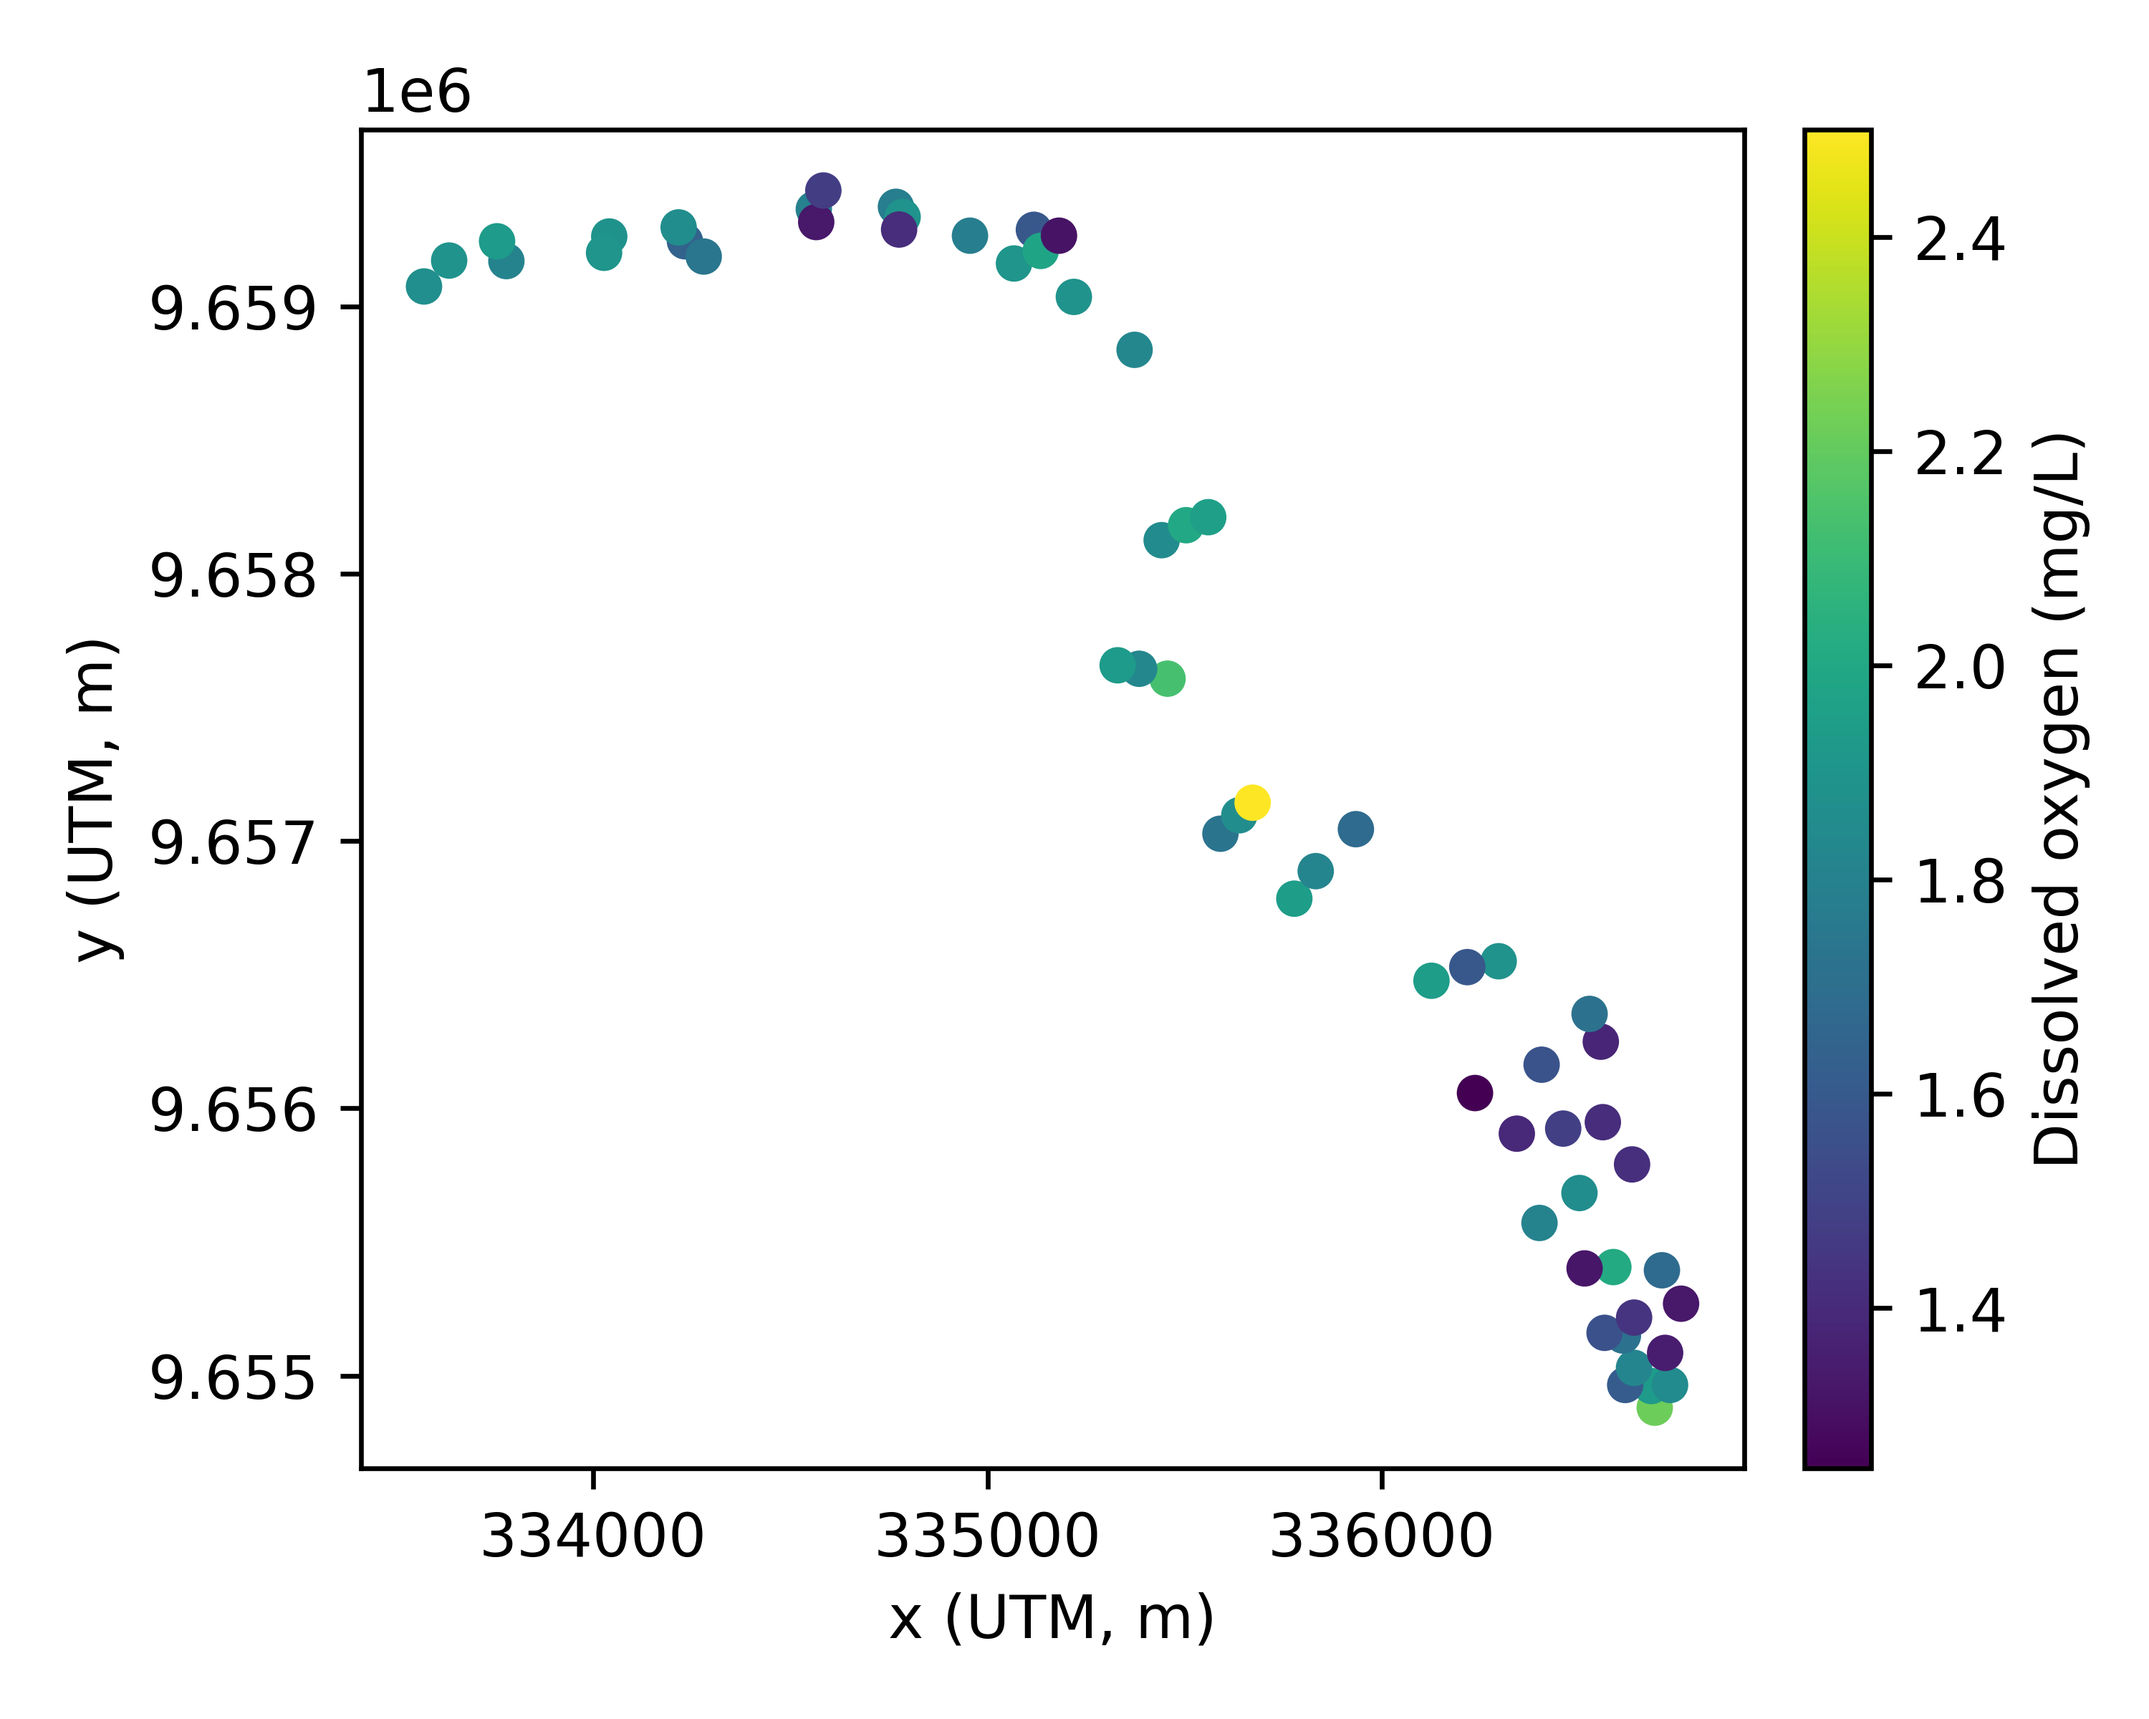
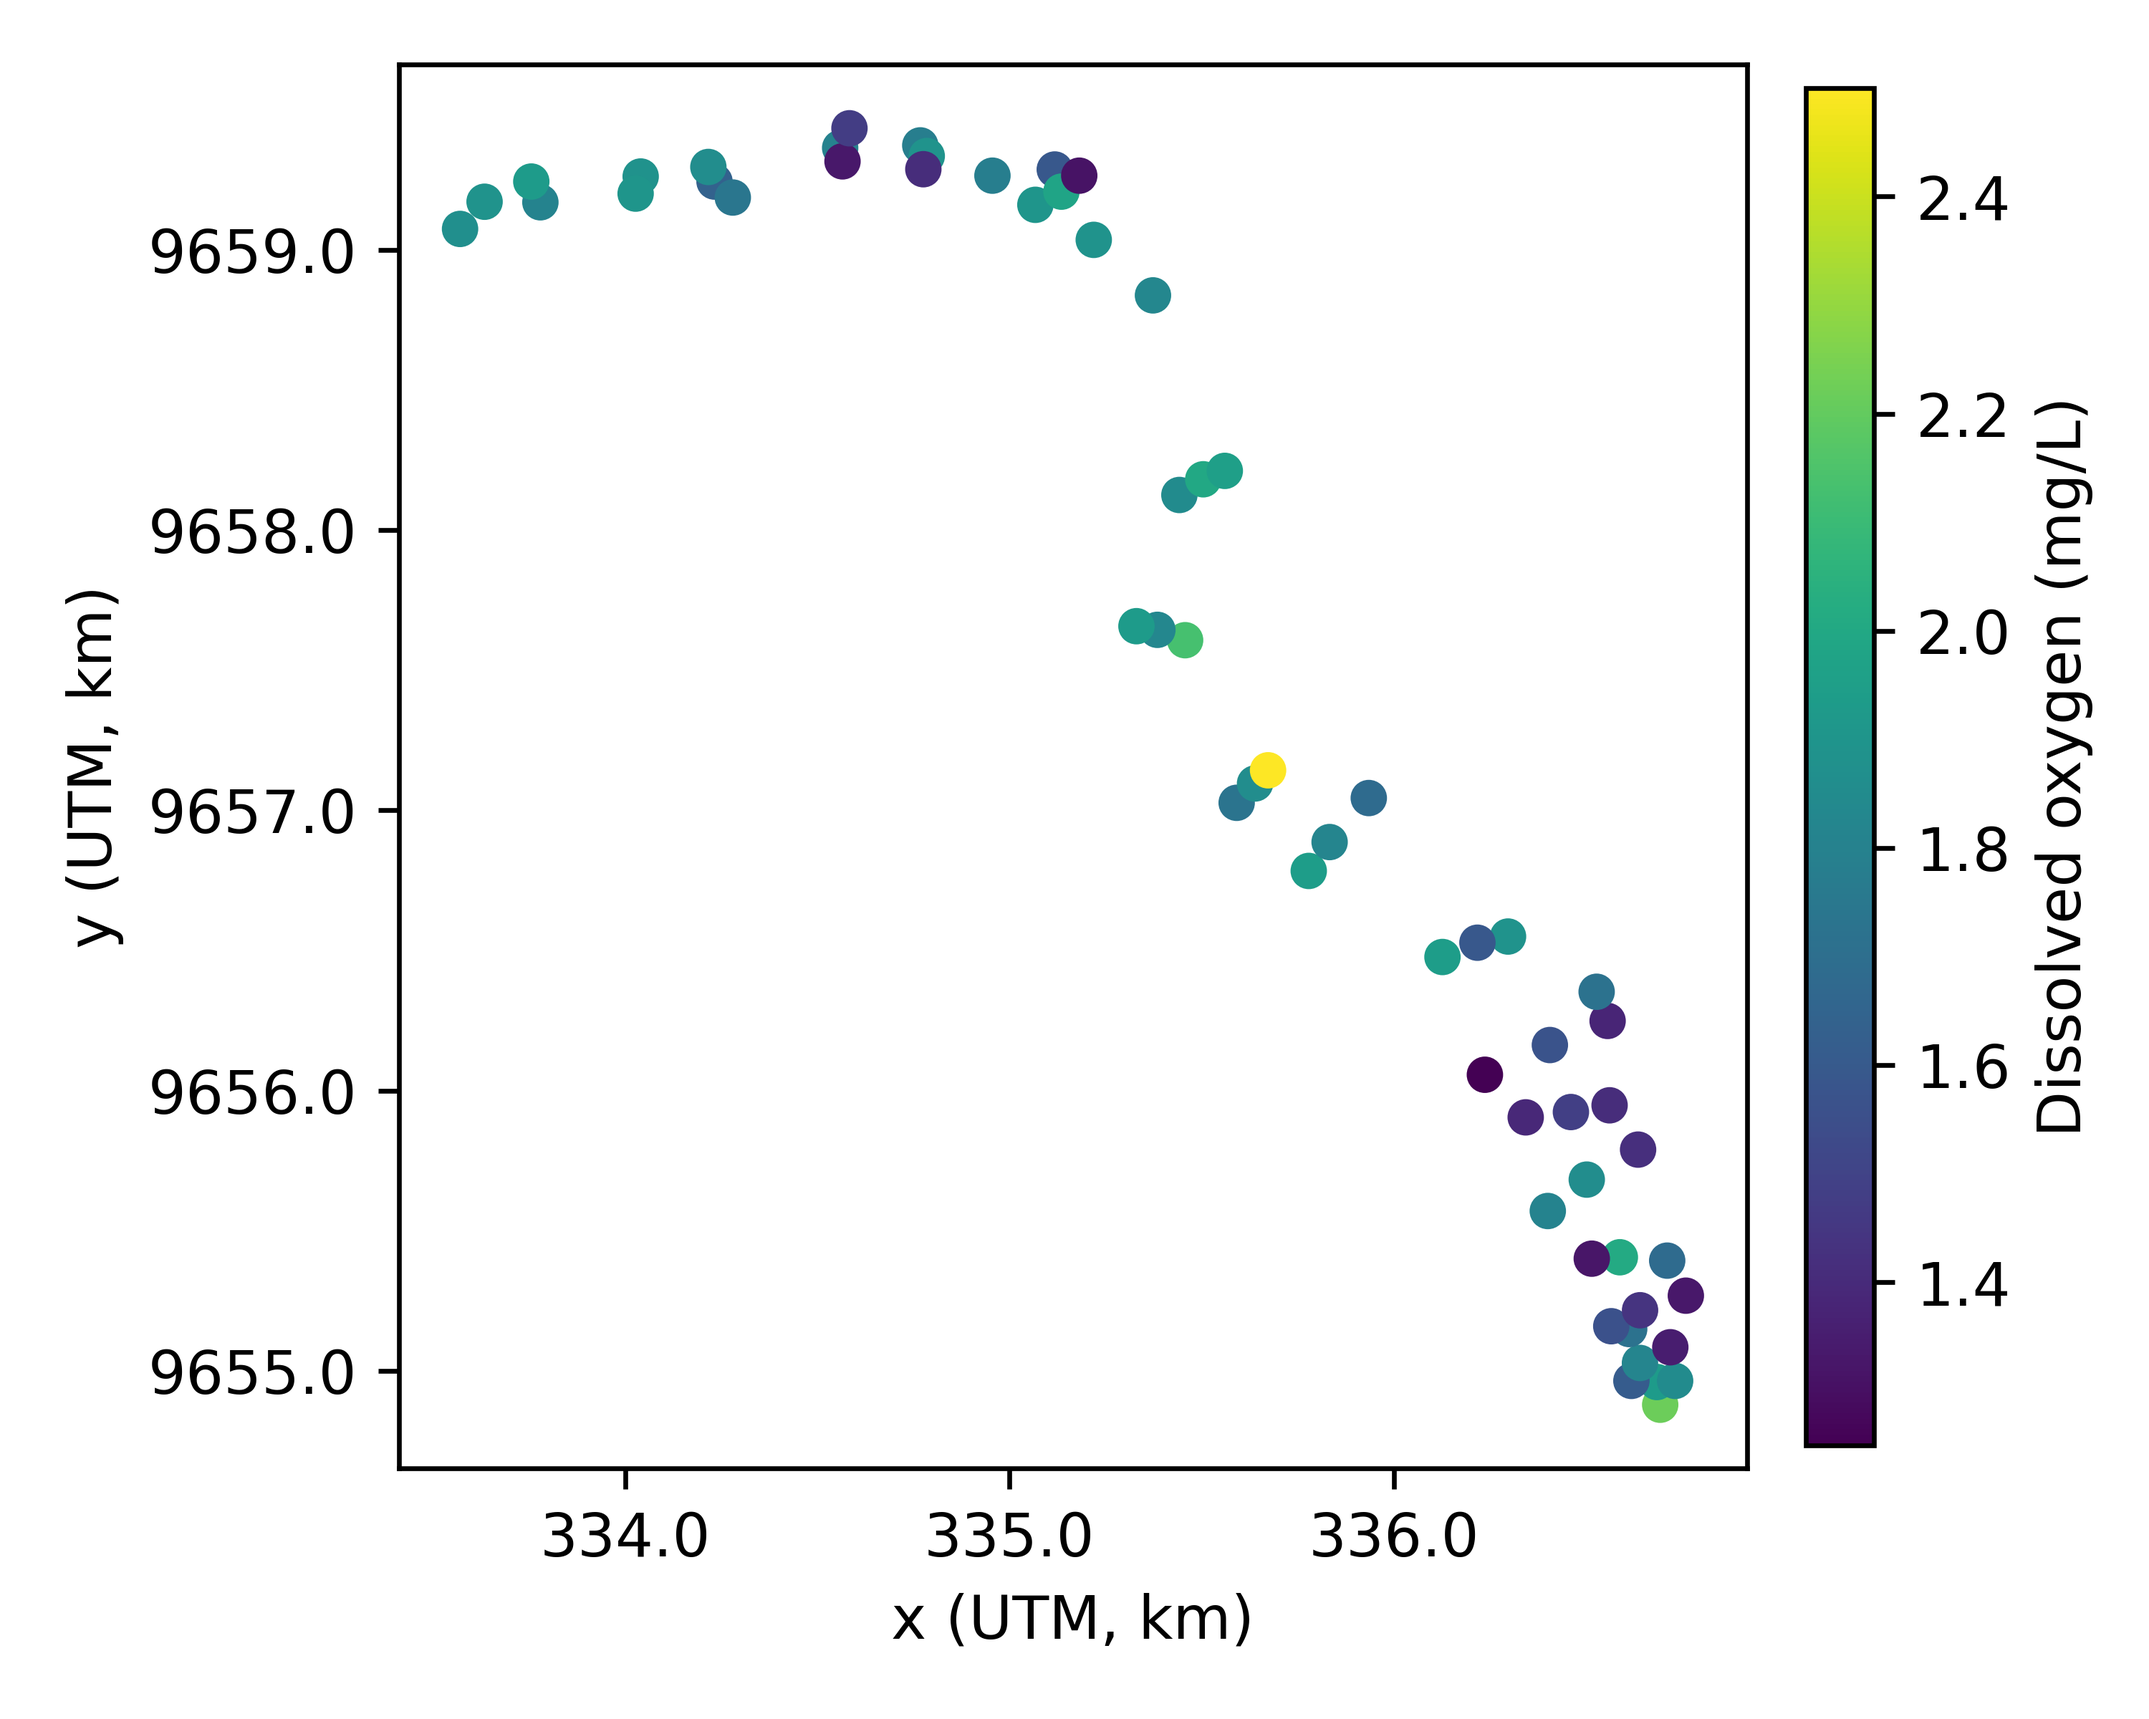
revision documents

diff --git a/scripts_multimodal/figures.py b/scripts_multimodal/figures.py
@@ -1,5 +1,6 @@
 import os
 import matplotlib.pyplot as plt
+from matplotlib import ticker
 import torch
 
 
@@ -92,8 +93,7 @@ def save_pollution_scatter(x, y, score, out_dir: str, dpi: int):
     plt.figure(figsize=(5, 4))
     sc = plt.scatter(x, y, c=score, s=24, cmap="inferno")
     plt.colorbar(sc, fraction=0.046, pad=0.04, label="Pollution index (0–1)")
-    plt.xlabel("x (UTM, m)")
-    plt.ylabel("y (UTM, m)")
+    _format_utm_axes_km(plt.gca())
     # no title
     plt.tight_layout()
     plt.savefig(os.path.join(out_dir, "pollution_scatter.png"), dpi=dpi)
@@ -125,8 +125,7 @@ def save_pollution_idw(x, y, score, out_dir: str, dpi: int, power: int = 2):
         aspect="auto",
     )
     plt.scatter(x, y, s=10, c="k", alpha=0.5)
-    plt.xlabel("x (UTM, m)")
-    plt.ylabel("y (UTM, m)")
+    _format_utm_axes_km(plt.gca())
     # no title
     plt.colorbar(im, fraction=0.046, pad=0.04, label="Pollution index (0–1)")
     plt.tight_layout()
@@ -159,8 +158,7 @@ def save_idw_map(x, y, z, title, fname, out_dir: str, dpi: int, power: int = 2):
         aspect="auto",
     )
     plt.scatter(x, y, s=10, c="k", alpha=0.5)
-    plt.xlabel("x (UTM, m)")
-    plt.ylabel("y (UTM, m)")
+    _format_utm_axes_km(plt.gca())
     label = _label_with_unit(title)
     # no title
     plt.colorbar(im, fraction=0.046, pad=0.04, label=label)
@@ -197,8 +195,7 @@ def save_idw_combined(x, y, zs, titles, fname, out_dir: str, dpi: int, power: in
         )
         ax.scatter(x, y, s=8, c="k", alpha=0.5)
         # no title
-        ax.set_xlabel("x (UTM, m)")
-        ax.set_ylabel("y (UTM, m)")
+        _format_utm_axes_km(ax)
         fig.colorbar(im, ax=ax, fraction=0.046, pad=0.02, label=label)
     fig.tight_layout()
     fig.savefig(os.path.join(out_dir, fname), dpi=dpi)
@@ -217,3 +214,10 @@ def _label_with_unit(name: str) -> str:
     if "POLLUTION" in key_up:
         return "Pollution index (0–1)"
     return key
+
+
+def _format_utm_axes_km(ax: plt.Axes):
+    ax.xaxis.set_major_formatter(ticker.FuncFormatter(lambda v, _: f"{v / 1000:.1f}"))
+    ax.yaxis.set_major_formatter(ticker.FuncFormatter(lambda v, _: f"{v / 1000:.1f}"))
+    ax.set_xlabel("x (UTM, km)")
+    ax.set_ylabel("y (UTM, km)")

diff --git a/scripts/figures.py b/scripts/figures.py
@@ -2,6 +2,7 @@ import os
 from typing import Dict, Tuple
 
 import matplotlib.pyplot as plt
+from matplotlib import ticker
 import torch
 
 
@@ -67,8 +68,7 @@ def save_spatial_map(
     sc = plt.scatter(x.cpu().numpy(), y.cpu().numpy(), c=z.cpu().numpy(), s=26)
     label = _label_with_unit(name)
     plt.colorbar(sc, fraction=0.046, pad=0.04, label=label)
-    plt.xlabel("x (UTM, m)")
-    plt.ylabel("y (UTM, m)")
+    _format_utm_axes_km(plt.gca())
     # no title
     plt.tight_layout()
     plt.savefig(os.path.join(out_dir, f"map_{name}.png"), dpi=dpi)
@@ -123,3 +123,10 @@ def _label_with_unit(name: str) -> str:
     if key_up in {"COR_A", "COR_V"}:
         return key  # unknown unit
     return key
+
+
+def _format_utm_axes_km(ax: plt.Axes):
+    ax.xaxis.set_major_formatter(ticker.FuncFormatter(lambda v, _: f"{v / 1000:.1f}"))
+    ax.yaxis.set_major_formatter(ticker.FuncFormatter(lambda v, _: f"{v / 1000:.1f}"))
+    ax.set_xlabel("x (UTM, km)")
+    ax.set_ylabel("y (UTM, km)")
